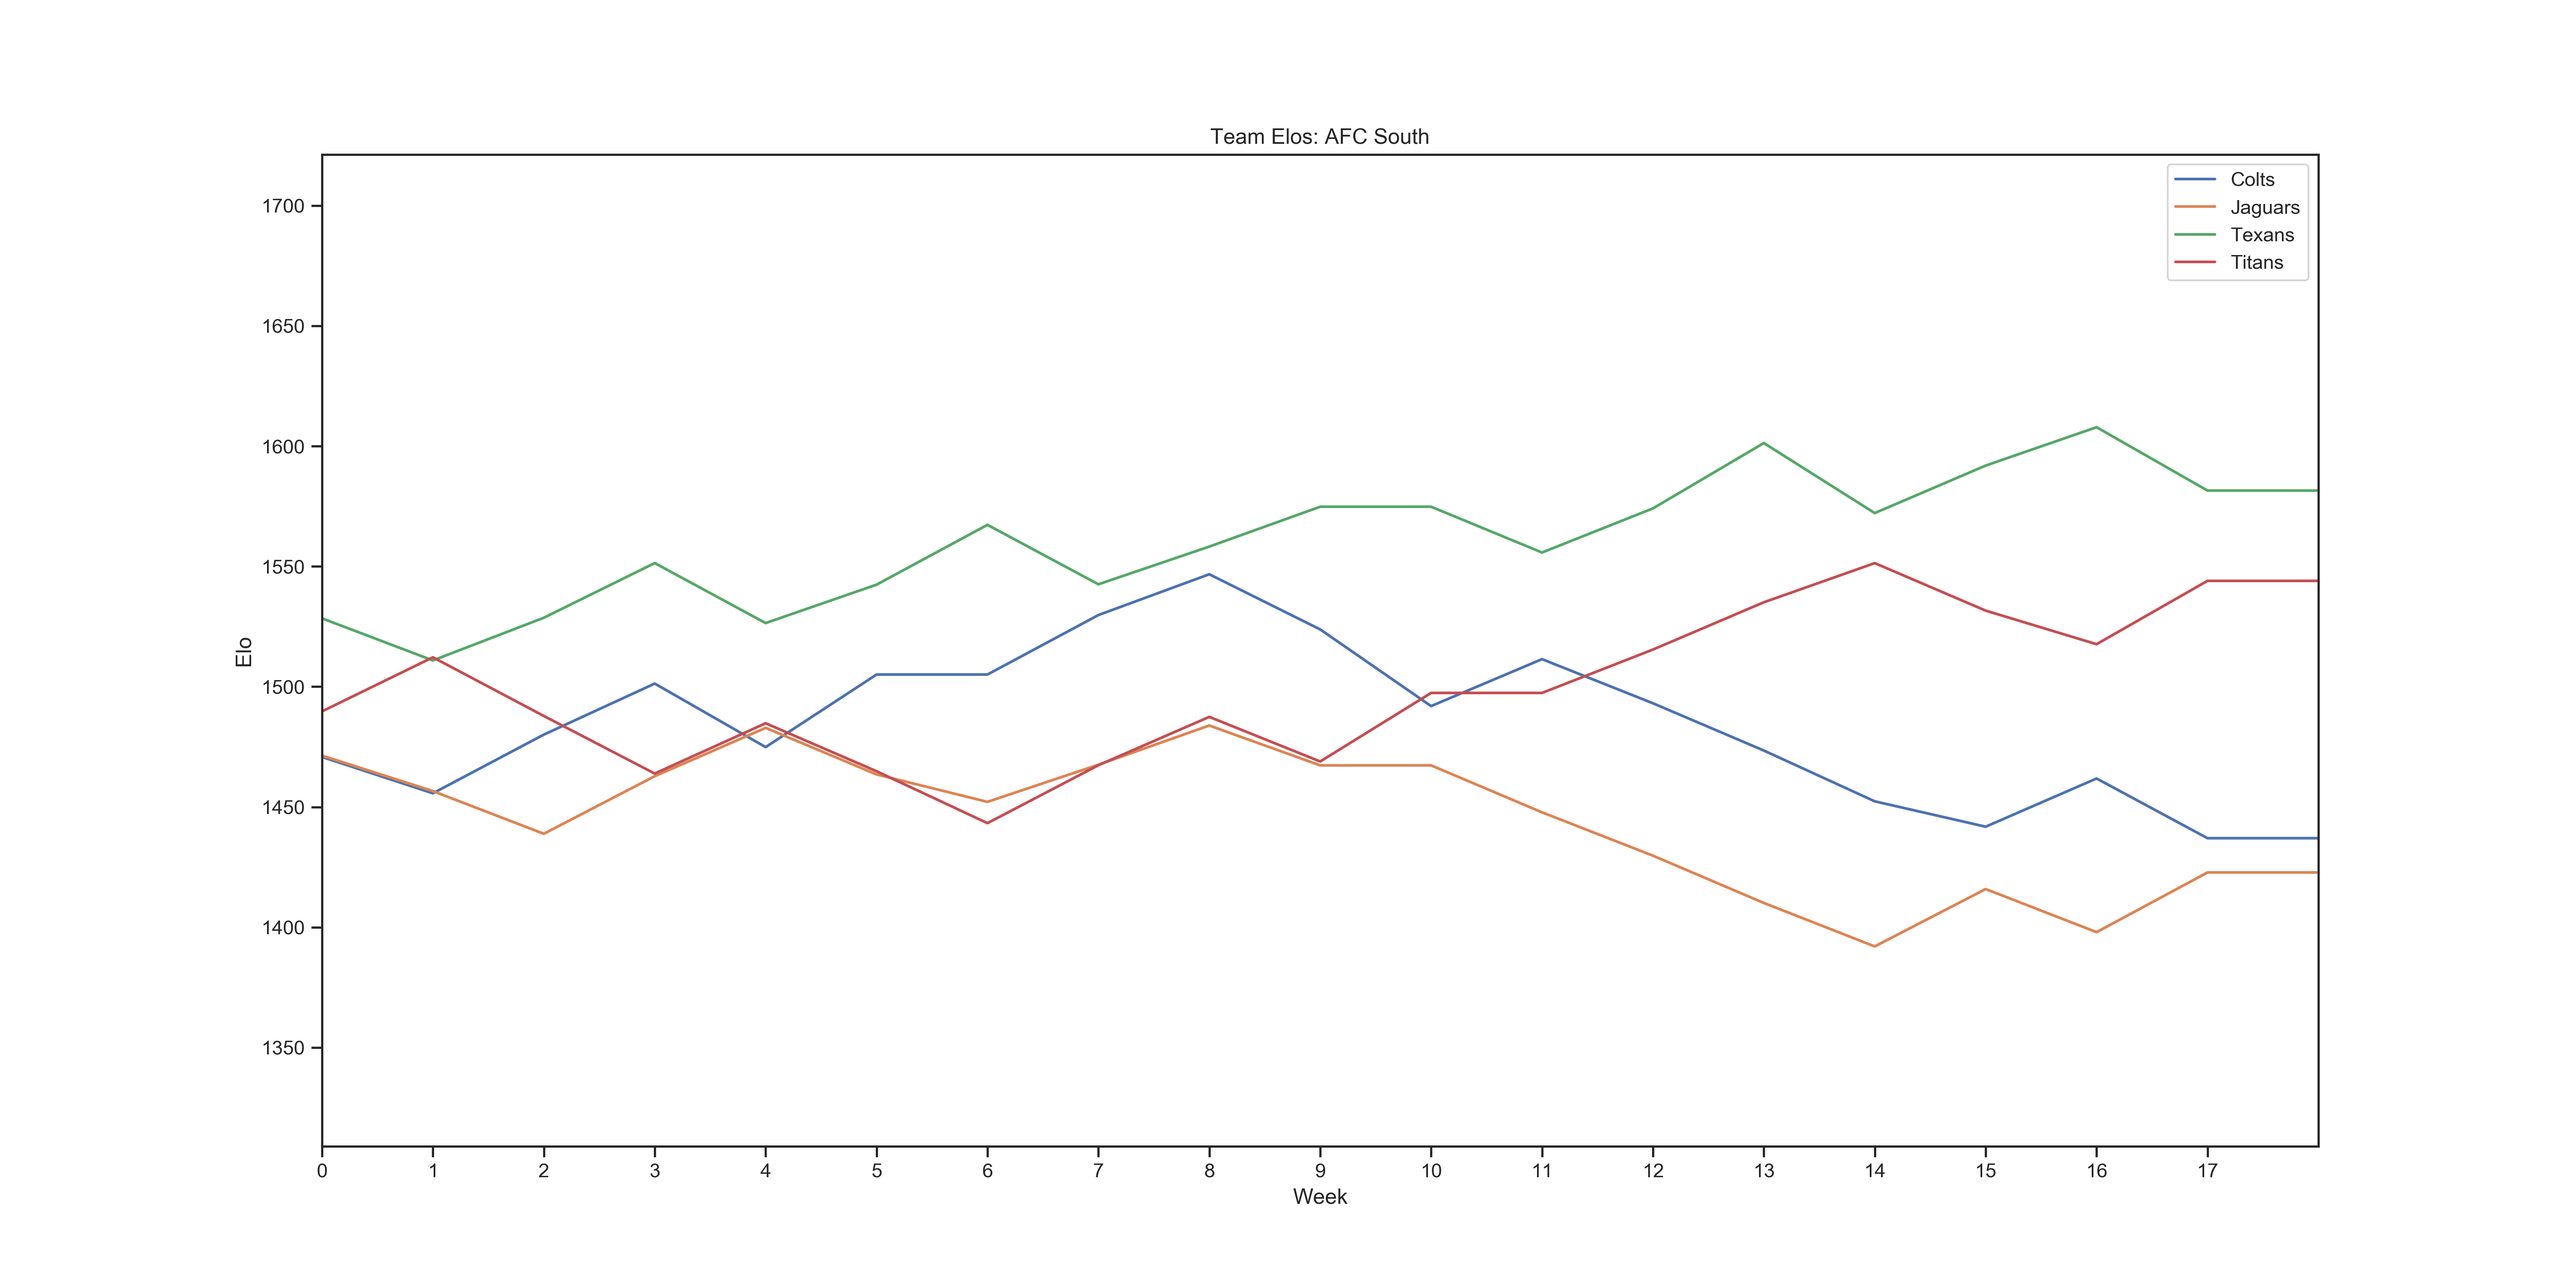
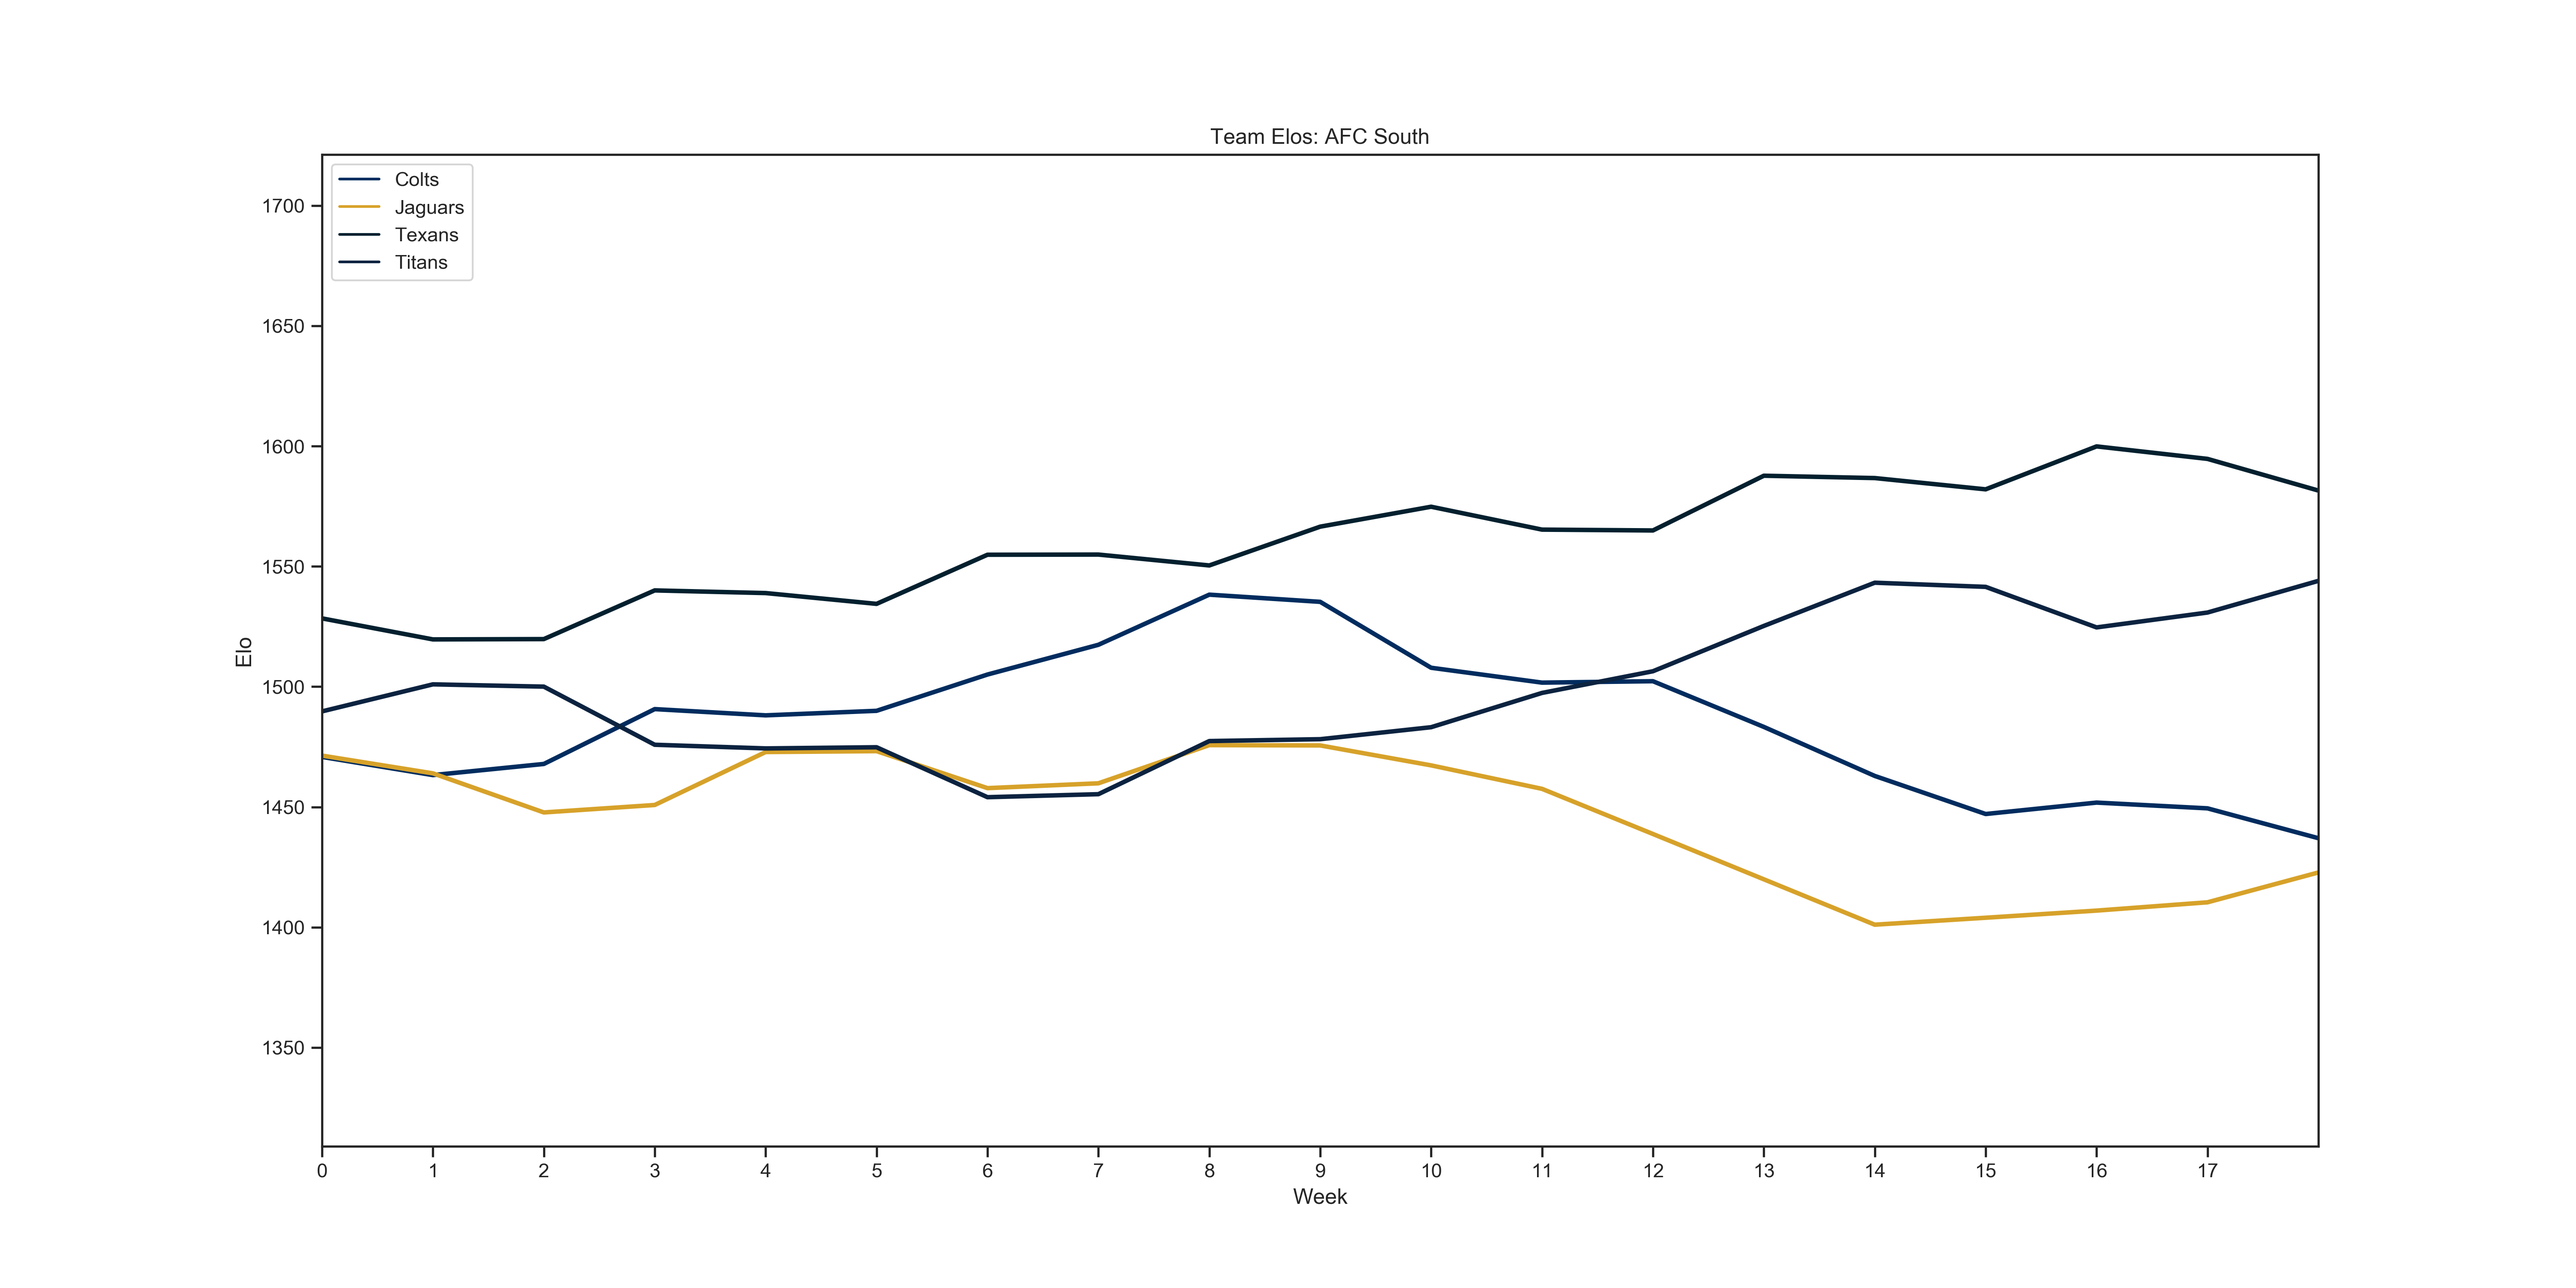
Updated elo over time plots

diff --git a/NFLSeason2019.py b/NFLSeason2019.py
@@ -1,4 +1,5 @@
 import maya
+import itertools
 
 import Projects.nfl.NFL_Prediction.NFLGraph as Graph
 import Projects.nfl.NFL_Prediction.NFLPredictor as Predictor
@@ -76,6 +77,16 @@ def season():
 
         Playoffs.monte_carlo(nfl_teams)
 
+        # Get the pagerank of the teams
+        Standings.print_team_pagerank(nfl_teams)
+
+        # Show the graph
+        Plotter.show_graph(Graph.nfl)
+        Graph.persist_graph()
+
+        # Show the parity clock
+        Graph.parity_clock()
+
     # Playoffs
     print('Playoffs')
     nfl_teams = handle_week(nfl_teams, 'Wildcard Weekend', wildcard, eliminated_teams, '31 December 2019')
@@ -87,29 +98,20 @@ def season():
     nfl_teams = handle_week(nfl_teams, 'Superbowl', superbowl, eliminated_teams, '28 January 2020')
     eliminated_teams.extend([''])
 
-    # Get the pagerank of the teams
-    Standings.print_team_pagerank(nfl_teams)
-
-    if not regular_season_complete:
-
-        # Show the graph
-        Plotter.show_graph(Graph.nfl)
-        Graph.persist_graph()
-
-        # Show the parity clock
-        Graph.parity_clock()
-
     # Save the standings csv
     Standings.get_full_standings_csv(nfl_teams)
 
     # Final Outcome
-    league = Playoffs.get_league_structure()
-    for conf_name, conf in league.items():
+    for conf_name, conf in Playoffs.get_league_structure().items():
         for div_name, division in conf.items():
-            Plotter.plot_team_elo_over_season(div_name, division)
+            Plotter.plot_team_elo_over_season(div_name, division, Graph.nfl)
 
     if maya.now() > maya.when('28 January 2020', timezone='US/Central'):
         Playoffs.completed_games.to_csv('..\\Projects\\nfl\\NFL_Prediction\\Game Data\\2019.csv', index=False)
+
+        for conf_name, conf in Playoffs.get_league_structure().items():
+            conf_teams = list(itertools.chain(*[division for div_name, division in conf.items()]))
+            Plotter.plot_team_elo_over_season(conf_name, conf_teams, Graph.nfl)
 
 
 def set_up_teams():

diff --git a/PlottingHelper.py b/PlottingHelper.py
@@ -330,12 +330,13 @@ def plot_division_elo_function(teams, division_name, week_name, absolute=False, 
                       show_plot=False)
 
 
-def plot_team_elo_over_season(title, team_names, show_plot=True):
+def plot_team_elo_over_season(title, team_names, graph, show_plot=True):
     """
     Plots the change in elo over the season for a set of teams.
 
     :param title: The title that the team elos are for
     :param team_names: The names of the teams that are included in the plot
+    :param graph: The graph containing nfl team data
     :param show_plot: If the plot should be shown or just saved
     :return: Void
     """
@@ -411,7 +412,13 @@ def plot_team_elo_over_season(title, team_names, show_plot=True):
         data[team_name] = elos
 
     # Plot the data frame
-    ax = data.plot.line(figsize=(20, 10))
+    fig, ax = plt.subplots(figsize=(20, 10))
+    colors = nx.get_node_attributes(graph, 'Primary')
+    palette = [colors.get(team) for team in team_names]
+    rolling_data = data.rolling(2).mean().dropna()
+    rolling_data = rolling_data.append(data.iloc[0])
+    rolling_data = rolling_data.sort_index()
+    sns.lineplot(ax=ax, data=rolling_data, palette=sns.color_palette(palette), linewidth=2.5, dashes=False)
 
     # Add titles
     ax.set_title('Team Elos: ' + title)
@@ -423,6 +430,9 @@ def plot_team_elo_over_season(title, team_names, show_plot=True):
 
     # Remove the x margins
     plt.margins(x=0)
+
+    # Put the legend in the upper left
+    plt.legend(loc='upper left')
 
     # Get the min an max y values
     min_elo = min([team[4] for team in teams])

diff --git a/NFLGraph.py b/NFLGraph.py
@@ -14,6 +14,8 @@ def create_games_graph():
 
     nfl.add_nodes_from(create_all_nfl_teams())
 
+    return nfl
+
 
 def create_all_nfl_teams():
     """
